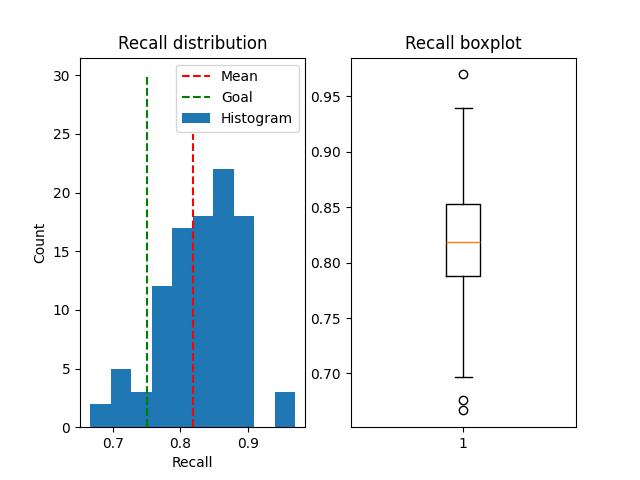
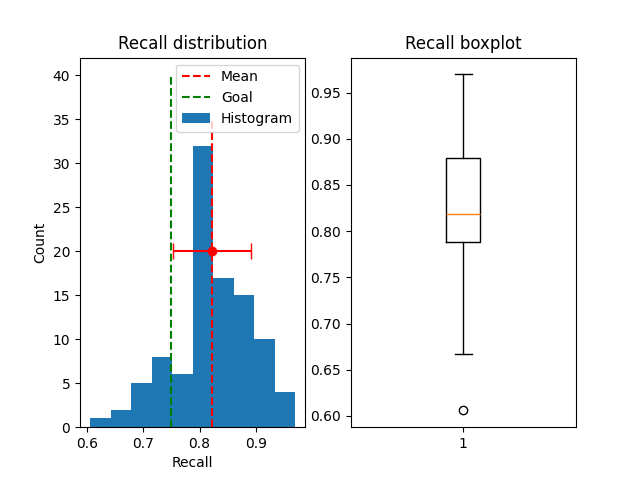
add error bar

diff --git a/src/evaluate.py b/src/evaluate.py
@@ -36,6 +36,7 @@ def evaluate():
         fig, axs = plt.subplots(1, 2)
         axs[0].hist(metrics["recalls"])
         axs[0].vlines(metrics["mean_recall"], 0, max(axs[0].get_yticks()), linestyles="--", color="red")
+        axs[0].errorbar(metrics["mean_recall"], max(axs[0].get_yticks())/2, xerr=metrics["std_recall"], fmt='o', color='red', capsize=6)
         axs[0].set_title("Recall distribution")
         axs[0].set_ylabel("Count")
         axs[0].set_xlabel("Recall")
